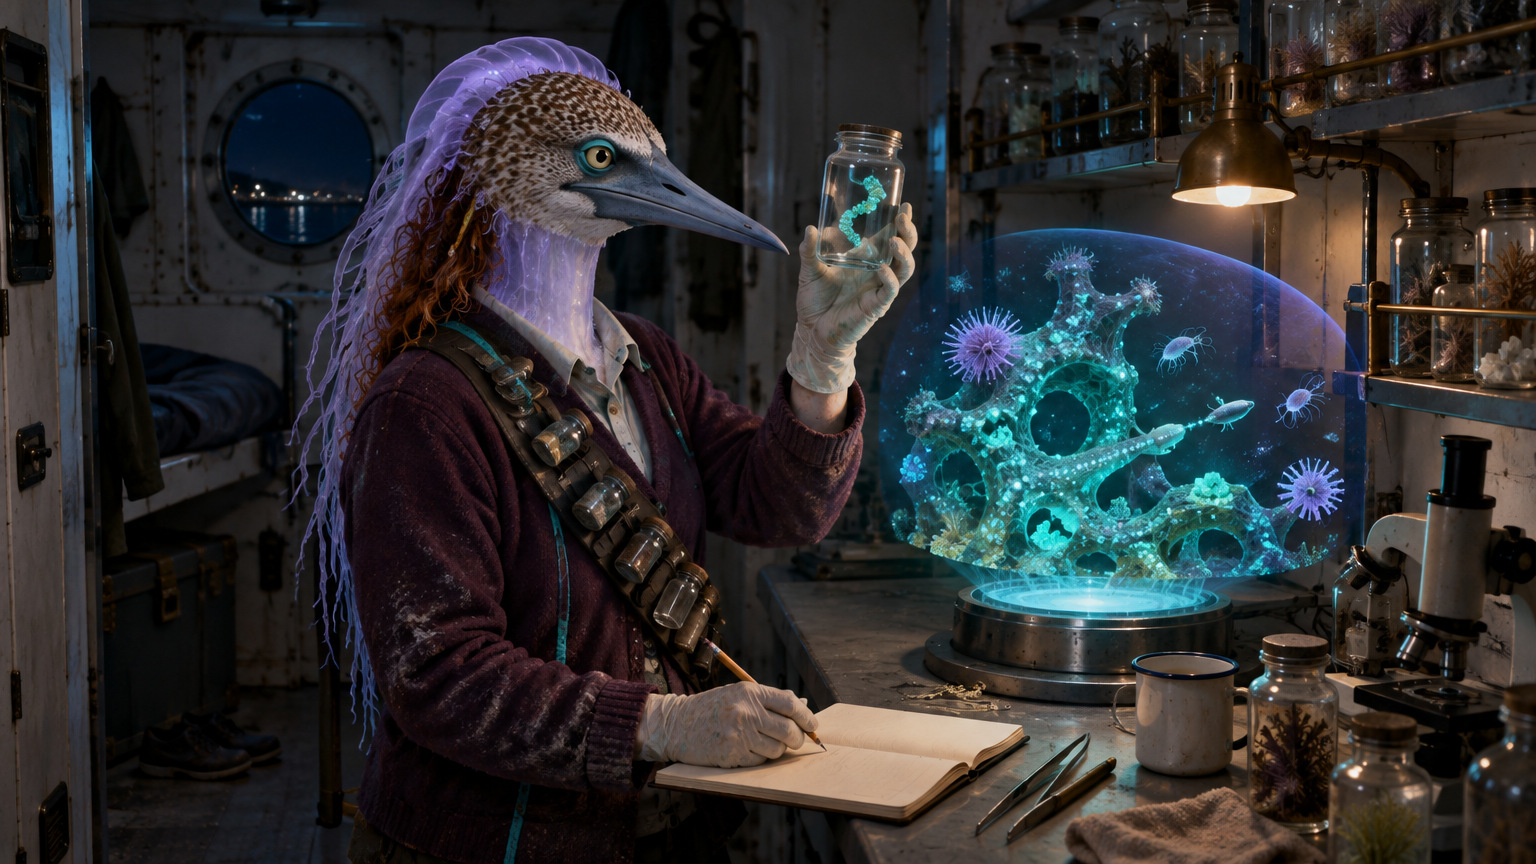
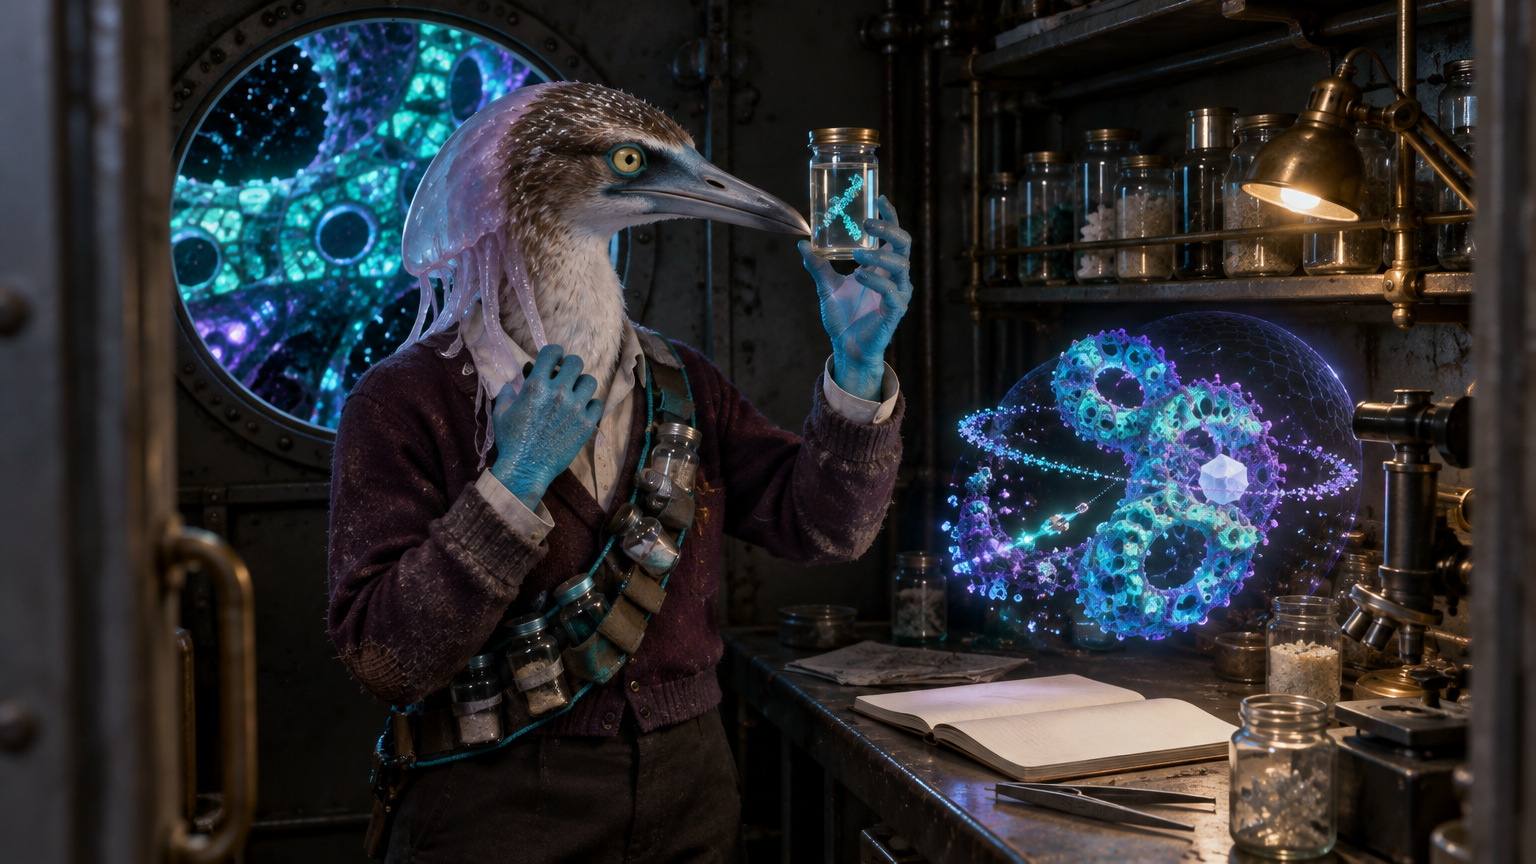
feat(pilots): Trace designed again as one creature: a booby whose head turns to jellyfish
Garrett, 2026-11-11: "trace looks like a bad and lazy photoshop with a bird
head some hair and jellyfish stuff. she does not look like a thoughtfully
conceived hybrid animal person. we can do a lot better job of expressing the
animals together", and her display showed "the actual sea".

The record's fused line is the verdict of a design panel (five designers, three
judges): one head with the booby's outline whose back turns to jelly (dry
feathers, then sleek wet ones, then milky lilac jelly, the white flecks carried
on into it), four slim frills at the nape, a feathered neck, and the hands of a
blue-footed booby, scaled to the fingertips with webs of the same jelly. The
copper curls, the veil, the strings and the gloves are left out of the words,
not forbidden. One hand is at the collarbone on a frill, inside the avatar.

The scene keeps her cabin and gives it his standard for a window: the round
port is full of the growth at its true size, the display holds the survey of
the whole of it, the jar holds a sprig. Third of four paintings: two of the
four came back as a jelly wig and a jelly bonnet (the record says which words
changed between them). Avatar re-cut with both blue hands and the jar.

No C# changed, so the reference compile was not run. The kit's self-tests and
the avatar writer's --check pass.

Affects: the colour grade ledger (Docs/VesselModels/colour_grade.json), written
again by colour_grade.py for the one avatar that changed.
[…]

diff --git a/Tools/Build/pilot_art/scenes/Trace.py b/Tools/Build/pilot_art/scenes/Trace.py
@@ -1,35 +1,73 @@
-"""Trace: booby and jellyfish, a researcher. One of the few scenes that show live play in a hologram with depth
-(Garrett, 2026-11-11: "I want to see some where the pilot's are on the bridge of the ark or in a vessel. and they are
-looking at a 3D holographic display ... that 3d rendering should look like gameplay footage"): in the cabin of a
-survey vessel, holding a jarred sprig of the lattice up against the survey of the whole growth."""
+"""Trace: booby and jellyfish, a researcher, in the cabin of a survey vessel hove to beside the growth it surveys.
+
+Designed again after Garrett's notes on the first scene (2026-11-11, 23:01 UTC): "trace doesn't look like she is
+looking at the hypersea but the actual sea ... as a character we really want to sea more inspired designs than this.
+trace looks like a bad and lazy photoshop with a bird head some hair and jellyfish stuff. she does not look like a
+thoughtfully conceived hybrid animal person. we can do a lot better job of expressing the animals together."
+
+The design is the work of a panel (five designers, each from one lens; three judges: a director, a stranger reading
+the avatar blind, and the painter's habits). What they agreed, and what this record keeps:
+  * ONE HEAD, and its outline is the booby's. The jellyfish is the back of that head, not a thing behind or on it:
+    the feathers go dry, then sleek and wet, then jelly, as if the bird had dived once and never quite dried. A
+    pattern crosses the join (the white flecks run on into the jelly) and something lies inside it (the last dark
+    feathers), which a paste-up cannot have.
+  * The parts the old picture added are LEFT OUT, never forbidden: the copper curls, the lilac veil over the crown,
+    the strings to the hip, the jelly neck, the gloves. A brief that says "no hair" gets hair (LESSONS 63, 67).
+  * The second signature is the hands: a blue-footed booby's blue, scaled to the fingertips, and "every web is
+    jelly". One of them is at the collarbone, inside the avatar's square, rolling the end of a nape frill: a
+    person's habit done with her own anatomy.
+  * No tissue makes its own light. The lamp and the port light both animals, and each answers as its material would.
+  * His standard for a window ("the dual perspectives of jugger"): the port is full of the growth at its true size,
+    the display holds the survey of the whole of it, and the jar holds a sprig. One thing at three sizes."""
 SCENE = dict(
-    treatment="Working photograph in a survey vessel's cabin, a display and a reading lamp",
+    treatment="Working photograph in a survey vessel's cabin: a sprig, the survey, and the growth itself in the port",
     shot=("A working photograph in the cabin of a small survey vessel at night: a 35mm lens from the cabin "
-          "doorway, the narrow room lit by a display and one reading lamp, natural colour, fine grain. The display "
-          "is as sharp as the face. The figure is seen from the waist up, standing at a bench."),
+          "doorway, natural colour. The display is as sharp as the face. The figure is seen from the waist up, "
+          "standing at a bench."),
+    frame=("The frame is wide, sixteen by nine, with {name} a third of the way in from the {side} edge. The head is "
+           "sharp and lit, the place behind it soft."),
     side="left",
     chart=("volume", "garden"),
     source="profession: a researcher matches a sprig taken that day against the survey of the whole growth",
-    seen=("the head is brown flecked with white and the breast white; the bill is long, pointed and blue-grey; the "
-          "jellyfish bell lies over the crown like a clear lilac veil, its fine tentacles trailing behind; "
-          "copper-red curls spill out at the nape",),
-    doing=("Trace stands at the bench and holds a specimen jar up beside the display in one gloved hand, at eye "
-           "level: in the jar is a sprig of the lattice itself, a dozen tiny teal blocks joined in a curve, still "
-           "faintly lit. Trace looks through the jar into the display, at the growing edge of the lattice, "
-           "matching the one to the other: solemn and far-seeing, the bill level, the pale eyes steady. The other "
-           "hand holds a pencil over a blank notebook. The face is turned three-quarters to the camera."),
-    place=("The cabin of a small survey vessel, moored for the night: a narrow room of pale riveted metal with a "
-           "bench down one side, racks of specimen jars held in by brass rails, each jar with a different small "
-           "growth in it, a microscope, a tin mug, and one round porthole full of indigo haze. Over the end of the "
-           "bench, above a projector plate set into its top, floats {chart} The display is as wide as a hatbox. "
-           "Under it lie tweezers, pencils and the blank notebook; behind, a bunk with a folded blanket. The cabin "
-           "is empty of people."),
-    light=("The display is the brighter light: teal and violet on the white breast and the long bill, shining "
-           "through the jar and through the lilac bell on the crown. A brass reading lamp clipped to the rack warms "
-           "the near shoulder and the copper curls."),
-    wear=("The plum cardigan is dusted with chalk at the cuffs and darned at one elbow, and one button is in the "
-          "wrong hole; the bandolier's jars are half full, one of them empty and unstoppered; the gloves are "
-          "stained green at the fingertips; a pencil is stuck through the curls at the nape; the deck shoes are "
-          "trodden down at the heel."),
-    close=(370, 10, 800, 440),
+    swap=(("Human hair shows only below the jellyfish's crown, never over it: loose copper-red human curls spilling "
+           "out at the nape.", "Nothing grows on the head but those feathers and that jelly."),),
+    fused=("Trace is a blue-footed booby whose head turns to jellyfish toward the back, as if the bird had dived "
+           "once and never quite dried. It is one head with a booby's outline: a flat forehead running straight "
+           "into a long, pointed slate blue-grey bill, and a rounded back no wider or higher than a seabird's. From "
+           "the bill to the eye the feathers are dry and matte, cinnamon brown flecked with white. Behind the eye "
+           "they lie sleek, wet and darker, mixed with pale ones the colour of the jelly. The back two fifths of "
+           "the head is the jellyfish: thick, smooth, milky, pale lilac jelly in the shape the feathered head "
+           "would have, the white flecks carried on into it as pale dots and the last dark feathers lying inside "
+           "it. Its only edge is low at the nape, below the level of the eyes, soft and lobed, with shadow under "
+           "it, and from under it hang four slim ruffled frills of the same jelly, the longest just reaching the "
+           "collarbone. Chin, throat and neck are white booby feathers down into the collar."),
+    seen=("the bill is as long as the head",),
+    lower="plain dark trousers",
+    hands=("Both hands are Trace's own, a person's in shape, four fingers and a thumb, and the bright turquoise "
+           "blue of a blue-footed booby's feet: pebbled scales to the fingertips, broader plates along the finger "
+           "tops, creased knuckles, short slate nails, chalk dust in the creases. A thin web of the same milky "
+           "lilac jelly joins each finger to the next as far as the first joint. The same blue scaled skin runs up "
+           "each wrist under a cuff turned back once."),
+    doing=("Trace stands at the bench in near profile, bill toward the display, holding a specimen jar up between "
+           "the bill and the display at eye height: in it, a sprig of the growth itself, a dozen tiny jade teal "
+           "bricks of light joined in a curve. Trace looks through the jar at the display, solemn and steady. The "
+           "other hand is at the collarbone, rolling the end of a nape frill between thumb and forefinger. Both "
+           "hands are in the frame and no other hand is anywhere."),
+    place=("The cabin of a small survey vessel, hove to beside the growth it is surveying: a narrow room of "
+           "riveted metal, a bench down one side, racks of specimen jars behind brass rails, a microscope. In the "
+           "end wall behind Trace is one round port an arm-span across, and the growth outside fills it, at its "
+           "true size: black space sown with fine white dust, and close outside a wall of bricks of light, each "
+           "as big as a door, set edge to edge in rings round open holes, jade teal deepening to indigo and "
+           "violet. Over the end of the bench floats {chart} The display hangs in the open air with nothing round "
+           "it, as wide as a hatbox, and shows that same growth whole and small. Under it lie tweezers and an open "
+           "blank notebook."),
+    light=("A brass reading lamp clipped to the rack is the warm light: on the near side of the face, one bright "
+           "point in the near eye, one hard highlight on the wet feathers, and through the lilac webs of both blue "
+           "hands. The port's cold jade and violet light comes through the jelly and its frills from behind and "
+           "shows the dark feathers inside; the wall beside the port is the darkest thing in the picture. The "
+           "display tints the white throat teal and violet."),
+    wear=("The plum cardigan is chalky at the cuffs, darned at one elbow and damp where the frills lie on it; a "
+          "pencil is pushed through a loop of the bandolier."),
+    close=(360, 34, 912, 586),
+    refs=("sea_flora_approach", "sea_flora_through", "sea_flora_crystal"),
 )
